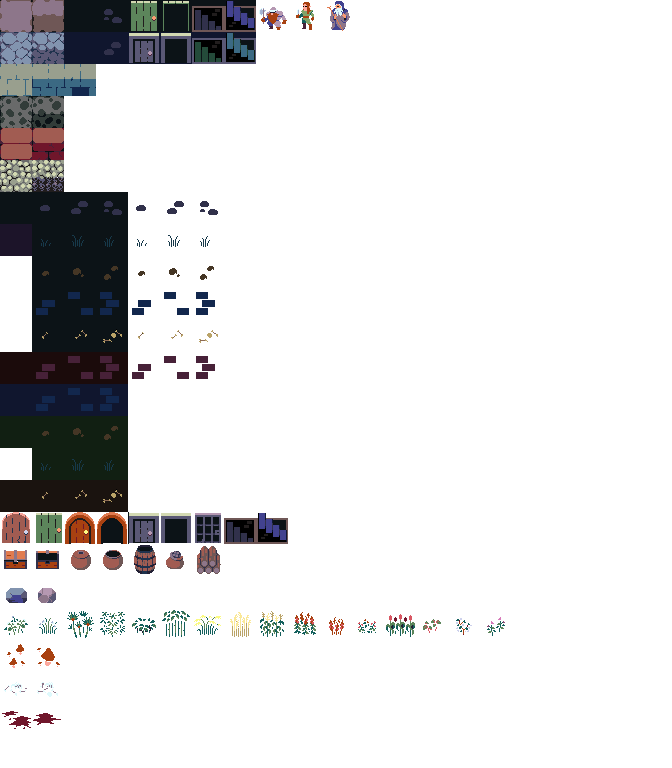
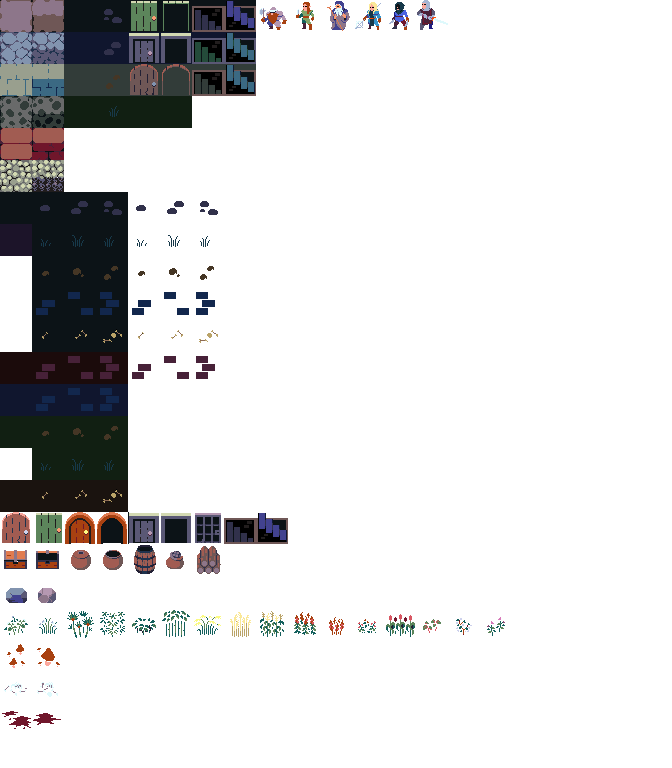
add terrain

Changed region(s): [[0.0938, 0.0625, 0.4062, 0.1875], [0.5312, 0.0, 0.6562, 0.0312]]

diff --git a/src/tiles.js b/src/tiles.js
@@ -1,8 +1,9 @@
 var tileSet = document.createElement('img');
 tileSet.src = 'resources/tiles.png';
-var terrains = ['dungeon', 'stone'];
-var playerTiles = ['human', 'dwarf', 'wizard'];
+var terrains = ['dungeon', 'stone', 'maze'];
+var playerTiles = ['human', 'dwarf', 'wizard', 'wizard2', 'thief', 'knight'];
 var gameTilemap = {
+  //dungeon tiles
   dungeonwall: [0, 0],
   dungeonwallhor: [32, 0],
   dungeonfloor: [64, 0],
@@ -19,7 +20,19 @@ var gameTilemap = {
   stonedooropen: [160, 32],
   stonestairdown: [192, 32],
   stonestairup: [224, 32],
+  mazewall: [0, 64],
+  mazewallhor: [32, 64],
+  mazefloor: [64, 64],
+  mazefloorrandom: [96, 64],
+  mazedoorclose: [128, 64],
+  mazedooropen: [160, 64],
+  mazestairdown: [192, 64],
+  mazestairup: [224, 64],
+  //player tilkes
   human: [288, 0],
   dwarf: [256, 0],
-  wizard: [320, 0]
+  wizard: [320, 0],
+  wizard2: [352, 0],
+  thief: [384, 0],
+  knight: [420, 0]
 };
